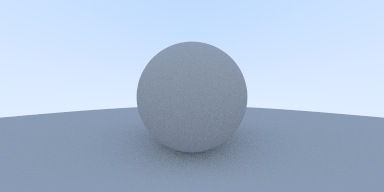
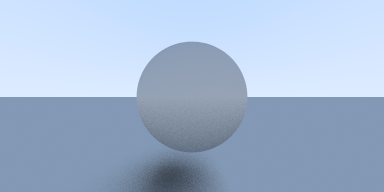
Added a new model "Plane"

Changed region(s): [[0.3125, 0.6875, 0.6562, 1.0], [0.625, 0.5, 1.0, 0.625], [0.0, 0.5, 0.375, 0.625]]

diff --git a/src/main.rs b/src/main.rs
@@ -19,7 +19,7 @@ use physics::{
 };
 
 
-use model::Sphere;
+use model::{Sphere, Plane};
 
 
 use std::{
@@ -50,7 +50,7 @@ fn ray_color(r: &Ray, world: &HittableList, depth: i32) -> Vector3 {
 
     let mut rec: HitRecord = Default::default();
     if world.hit(r, 0.001..INFINITY, &mut rec) {
-        let target = rec.p + rec.normal + Vector3::from_random_unit();
+        let target = rec.p + rec.normal + Vector3::from_random_in_unit_sphere();
         return 0.5 * ray_color(&Ray::new(rec.p, target - rec.p), world, depth - 1)
     }
     let unit_dir = r.get_direction().unit();
@@ -70,7 +70,8 @@ fn main() {
 
     // The traverse direction of Rust's Vec is different from C++ std::vector's
     let mut world = HittableList::new();
-    world.add(Arc::from(Sphere::new(Vector3(0.0, -100.5, -1.0), 100.0)));
+    //world.add(Arc::from(Sphere::new(Vector3(0.0, -100.5, -1.0), 100.0)));
+    world.add(Arc::from(Plane::new(Vector3(0.0, 1.0, 0.0), 1.1)));
     world.add(Arc::from(Sphere::new(Vector3(0.0, 0.0, -1.0), 0.5)));
 
     let world_shared = Arc::from(world);

diff --git a/src/model.rs b/src/model.rs
@@ -47,3 +47,31 @@ impl Hittable for Sphere {
         false
     }
 }
+
+pub struct Plane {
+    normal: Vector3,
+    offset: f64
+}
+
+impl Plane {
+    pub fn new(normal: Vector3, offset: f64) -> Self {
+        Plane {
+            normal, offset
+        }
+    }
+}
+
+impl Hittable for Plane {
+    fn hit(&self, r: &Ray, t_range: Range<f64>, rec: &mut HitRecord) -> bool {
+        let t = (-self.offset - r.get_origin().dot(self.normal)) / r.get_direction().dot(self.normal);
+        if t_range.contains(&t) {
+            rec.t = t;
+            rec.p = r.at(t);
+            rec.normal = self.normal;
+            true
+        } else {
+            false
+        }
+        
+    }
+}
